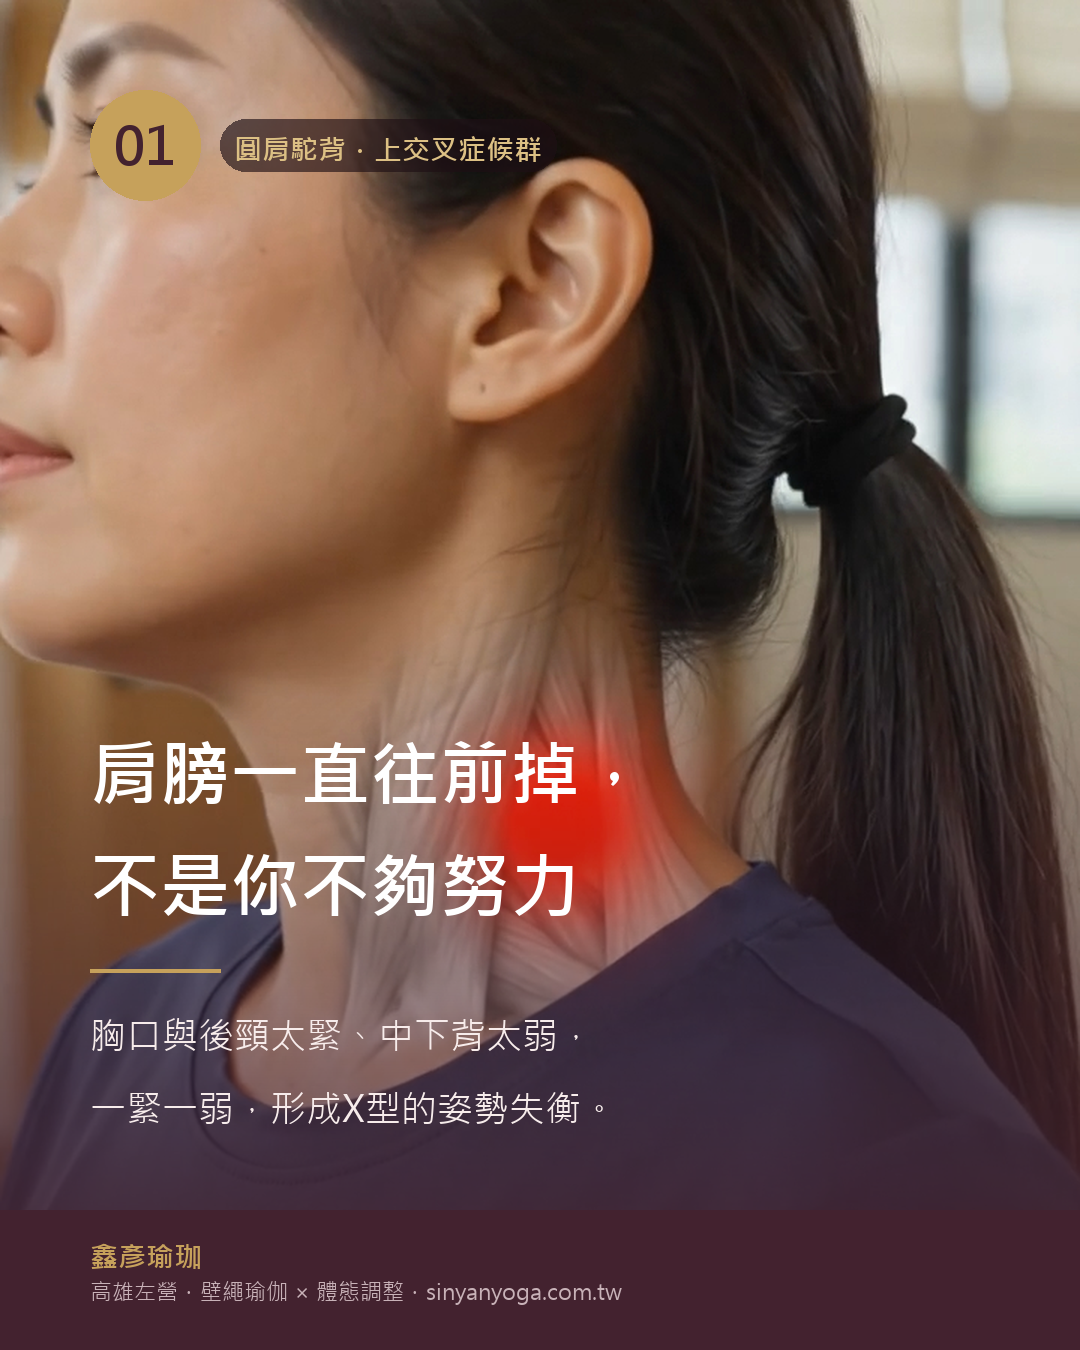
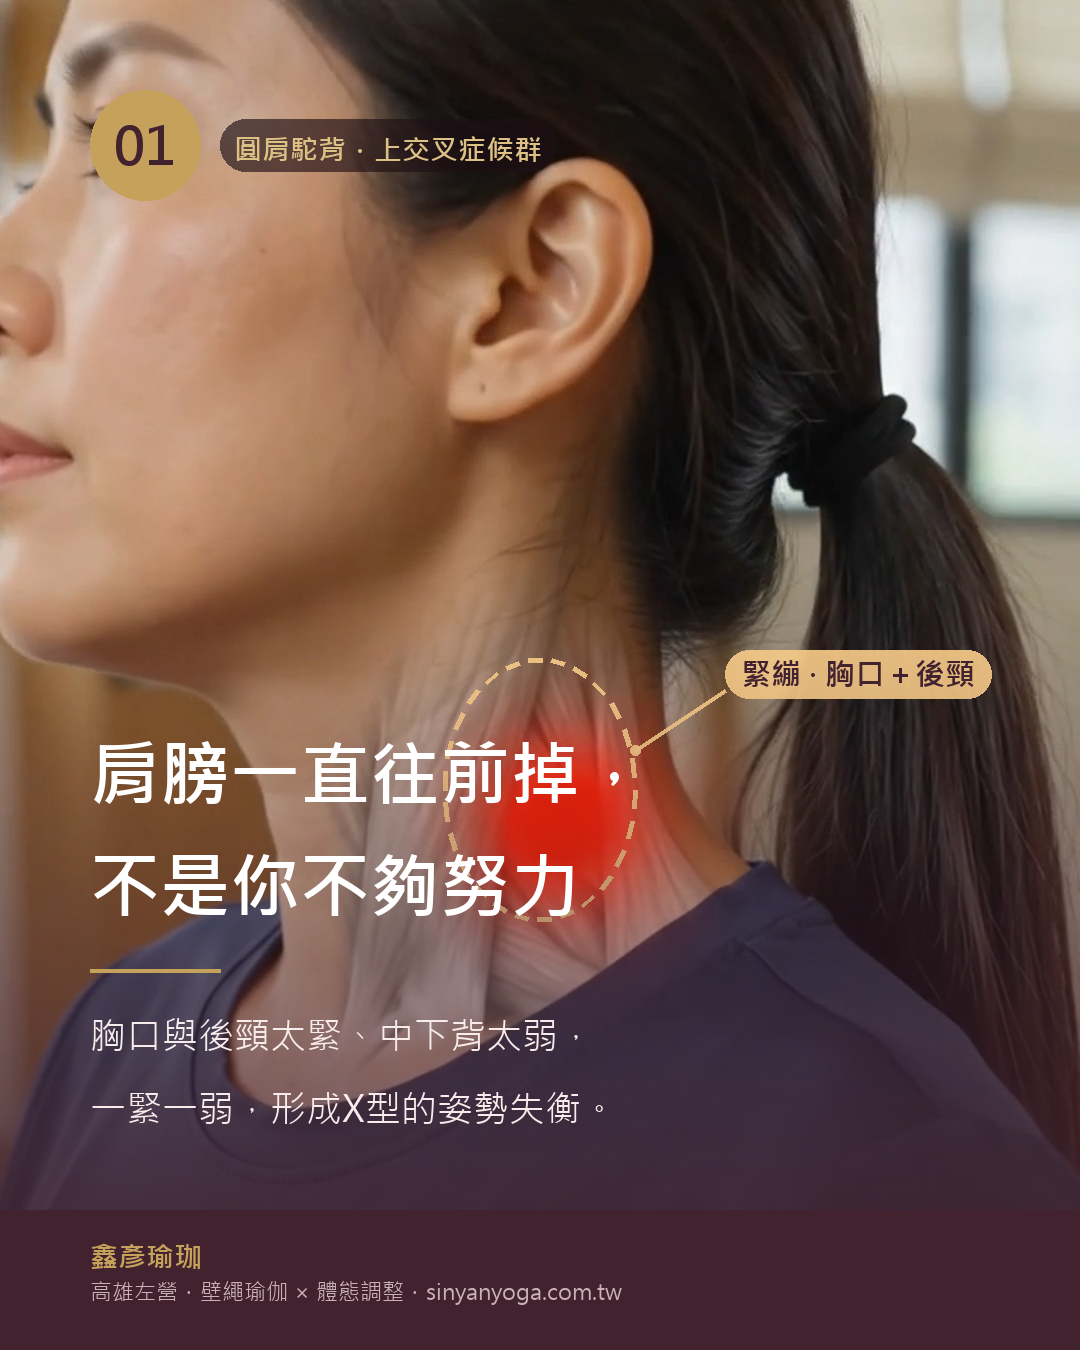
圓肩駝背文章新增診斷式圖卡（真實照片+標註圈線/步驟編號），做為未來部落格圖卡樣式標準

Changed region(s): [[0.6417, 0.4667, 0.9167, 0.5289], [0.5806, 0.5289, 0.6417, 0.6222]]

diff --git a/blog-rounded-shoulders.html b/blog-rounded-shoulders.html
@@ -72,6 +72,8 @@
   </ul>
   <p>一緊一弱，在側面交叉成一個 X，這就是「上交叉」名稱的由來。外觀上，它呈現為圓肩、駝背與頭部前傾；感受上，則常伴隨肩頸痠緊與容易疲勞。</p>
 
+  <figure class="frame"><img src="assets/card-upper-crossed-01.png" alt="圖卡：肩膀一直往前掉，不是你不夠努力——胸口與後頸太緊、中下背太弱，形成X型的姿勢失衡"></figure>
+
   <div class="callout">
     <span class="lab">一個重要觀念</span>
     <p>問題的核心，不在於「你不想抬頭挺胸」，而在於「負責挺直的肌肉太弱、被叫不動」。因此，改善的方向是兩件事並行：把過緊的鬆開，把過弱的喚醒。</p>
@@ -79,6 +81,8 @@
 
   <h2>為什麼光靠意志力，挺不住三分鐘？</h2>
   <p>當你刻意挺直，其實是用其他肌肉在「硬撐」，屬於代償。代償很耗力，也撐不久，所以幾分鐘後又會垮回原本的姿勢。真正能讓改變留下來的，是重新建立正確的肌肉分工——讓中下背有能力把肩胛穩定回正，頸部就不必再過度出力。這也是為什麼，單純提醒自己「站直一點」通常效果有限。</p>
+
+  <figure class="frame"><img src="assets/card-upper-crossed-02.png" alt="圖卡：刻意挺胸為什麼撐不到三分鐘——硬挺是用其他肌肉代償，真正的改善是喚醒不易出力的中下背"></figure>
 
   <h2>壁繩瑜伽，怎麼幫上忙？</h2>
   <p>這正是壁繩的專長。牆上的繩帶提供穩定的支撐，讓你能在安全、有依靠的狀態下，一方面伸展過緊的胸口，一方面循序喚醒平常不易啟動的中下背。你不需要先具備很好的柔軟度或肌力，繩子會替你分擔重量、借力找到正確的發力位置——對「越坐越緊」的久坐族尤其友善。若你想更了解它，可以先看這篇：<a class="inlink" href="blog-what-is-wall-rope.html">壁繩到底是什麼？第一次上課會做什麼？</a></p>
@@ -93,6 +97,8 @@
 
   <h2>今天就能開始的一個小練習</h2>
   <p>設一個提醒，每坐約 40 分鐘就起身做一次：雙手在背後互扣，將胸口輕輕打開、肩胛骨往後往下收，維持 5 個深呼吸。這個動作無法一次矯正失衡，但能提醒身體「往回走」，是一個溫和又實用的起點。若想更有系統地調整，仍建議搭配規律練習。</p>
+
+  <figure class="frame"><img src="assets/card-upper-crossed-03.png" alt="圖卡：每坐40分鐘起身做一次——雙手背後互扣，胸口輕輕打開，肩胛骨往後往下收，深呼吸5次"></figure>
 
   <p class="note-safety">本文為體態與姿勢的一般衛教與練習分享，非醫療診斷或治療。若有疼痛、舊傷或特殊病史，請先諮詢合格醫療專業人員。</p>
 
